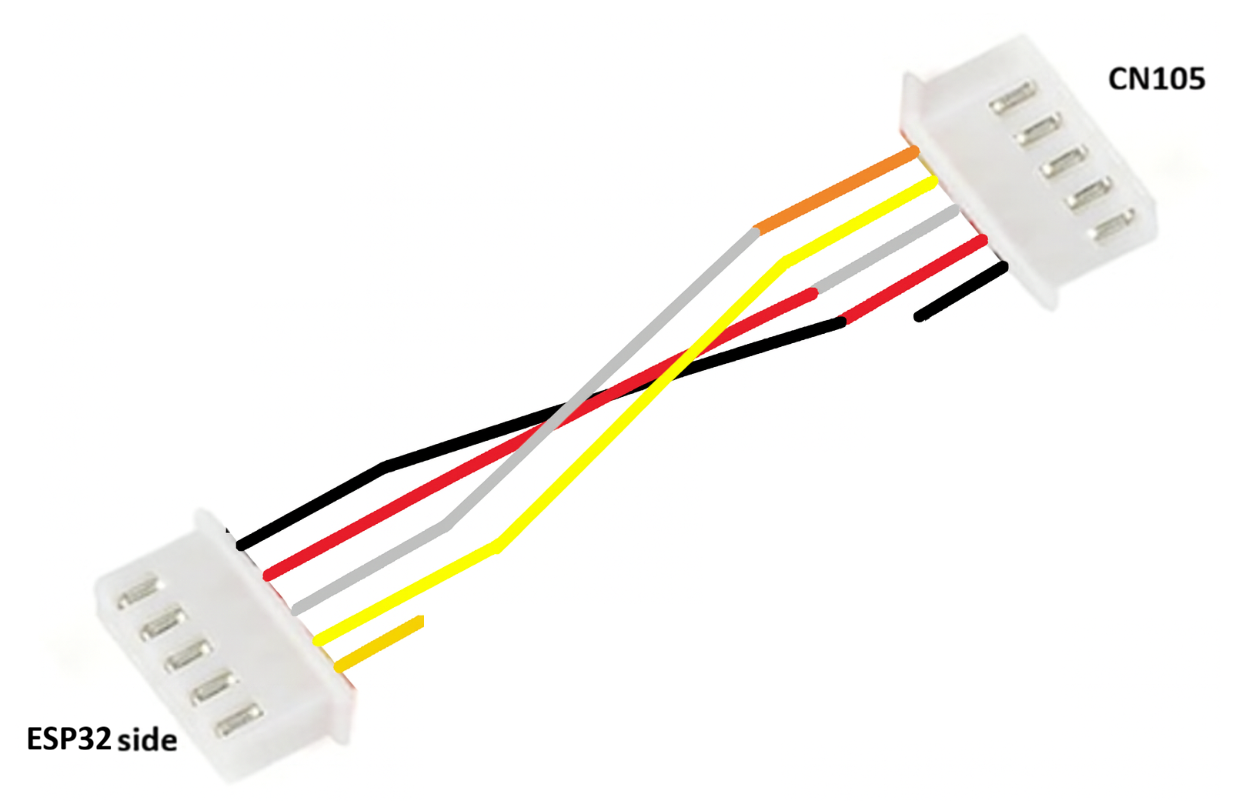
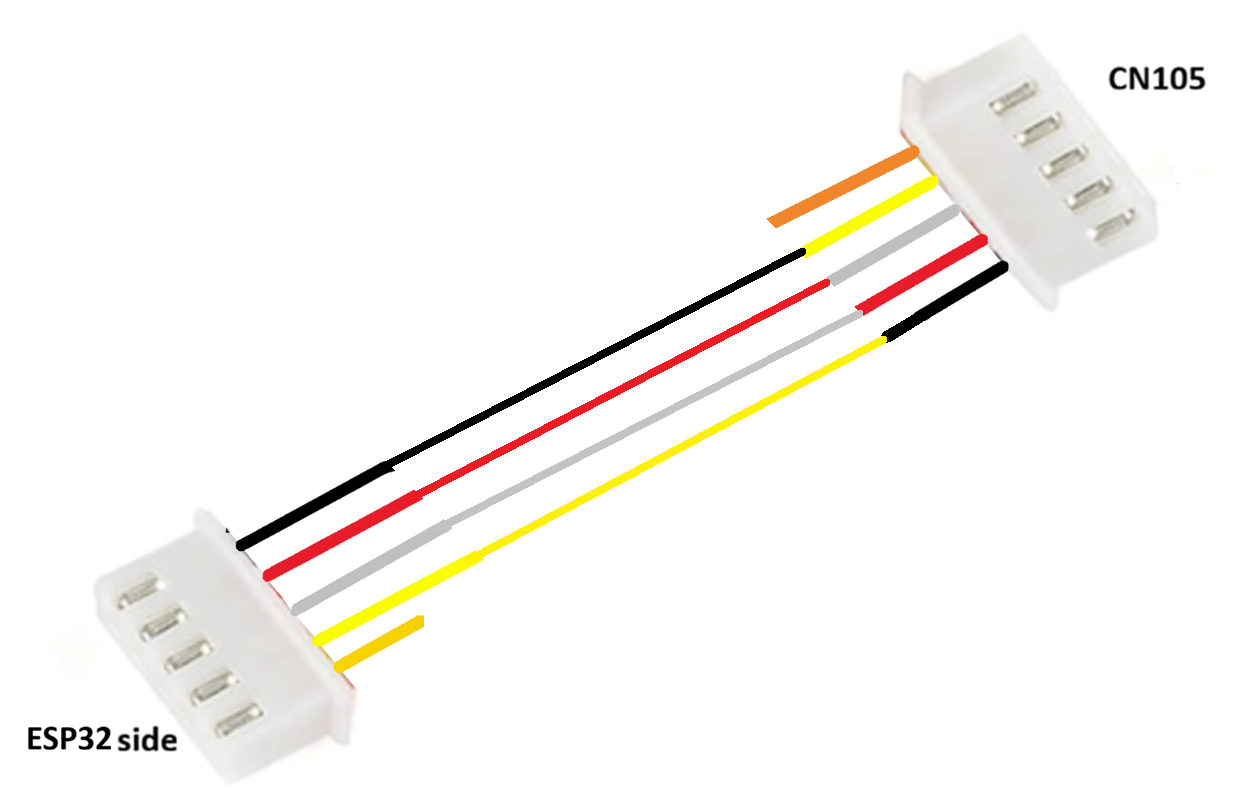
Fixed Mitsu wiring and add toshiba one

Changed region(s): [[0.3105, 0.2799, 0.7452, 0.6841]]

diff --git a/doc/Hardware_Toshiba.md b/doc/Hardware_Toshiba.md
@@ -1,7 +1,72 @@
-https://www.youtube.com/watch?v=FsfUyIIrS80
+# Toshiba Heat Pump – CN105 Connector
 
-https://easyeda.com/editor#id=2dd955e188ce4dcab36f55ca085d7541|812962045a9e4794adacf2a74fa4dc59
+## Overview
 
-https://oshwlab.com/toremick/toshiba-ac-heatpump-mqtt
+This repository documents the **communication connector** used on **Toshiba heat pumps**.  
+It describes the electrical characteristics, pinout, and how to interface the connector with a microcontroller such as an **ESP32** for monitoring and control purposes.
 
-https://github.com/burrocargado/toshiba-aircon-mqtt-bridge/tree/master
+The connector exposes a simple UART interface commonly used by OEM controllers and third-party integrations.
+
+---
+
+## Communication Details
+
+The connector provides a **UART (serial) interface** with the following parameters:
+
+- **Logic level:** 5V TTL  
+- **Baud rate:** 9600 bps  
+- **Data format:** 8E1  
+  - 8 data bits  
+  - Even parity  
+  - 1 stop bit  
+
+⚠ **Important:**  
+The ESP32 operates at **3.3V logic levels**.  
+A **bi-directional level shifter** is required to safely interface with the CN105 connector and avoid damage to the ESP32.
+
+---
+
+## Connector
+
+### Physical Connector
+
+![Toshiba Connector](img/toshiba_connector.png)
+
+- **Type:** JST female connector  
+- **Pitch:** 2.00 mm   
+
+---
+
+### Pinout
+
+| Pin | Wire Color | Signal | Description |
+|-----|------------|--------|-------------|
+| 1 | Blue | TX | UART transmit (from heat pump) |
+| 2 | Pink | GND | Ground |
+| 3 | Black | +5V | 5V power output |
+| 4 | White | RX | UART receive (to heat pump) |
+| 5 | — | — | Not connected |
+
+---
+
+## Bill of Materials (BOM)
+
+| Component | Description | Link |
+|----------|-------------|------|
+| JST 2.00 mm Male Connector | CN105 mating connector | https://fr.aliexpress.com/item/1005009087160808.html |
+
+---
+
+## Adapter: JST 2.54 mm to JST 2.00 mm male
+
+To simplify prototyping and connection to standard breadboards or modules, a **JST 2.54 mm to JST 2.00 mm adapter cable** can be used.
+
+![CN105 Wiring Adapter](img/toshiba_wiring.png)
+
+---
+
+## Connecting to an ESP32
+
+For detailed wiring diagrams and ESP32 configuration, see:
+
+➡ **[ESP32 Hardware Documentation](Hardware_ESP32.md)**

diff --git a/doc/Hardware_Mitsubishi.md b/doc/Hardware_Mitsubishi.md
@@ -21,6 +21,7 @@ The CN105 connector exposes a **UART interface** with the following characterist
 ### Physical Connector
 
 ![Mitsubishi CN105 Connector](img/CN105.png)
+JST connector male 2.00mm (Red)
 
 ### Pinout
 
@@ -40,6 +41,8 @@ Make sure to double-check the pin numbering orientation before wiring.
 
 ![CN105 Wiring Adapter](img/CN105_wiring.png)
 
+
+![CN105 Plugged](img/CN105_plug.jpg)
 
 ## Connecting to an ESP32
 
